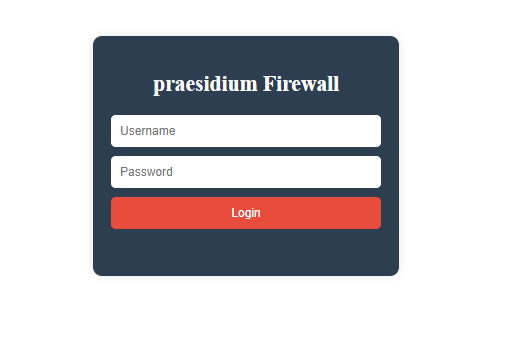
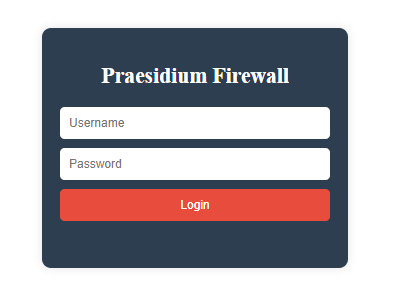
readme..

diff --git a/web/index.php b/web/index.php
@@ -14,7 +14,7 @@ unset($_SESSION['error']);
 </head>
 <body>
     <div class="login-container">
-        <h2>praesidium Firewall</h2>
+        <h2>Praesidium Firewall</h2>
         <form action="login.php" method="post">
             <input type="text" name="username" placeholder="Username" required>
             <input type="password" name="password" placeholder="Password" required>